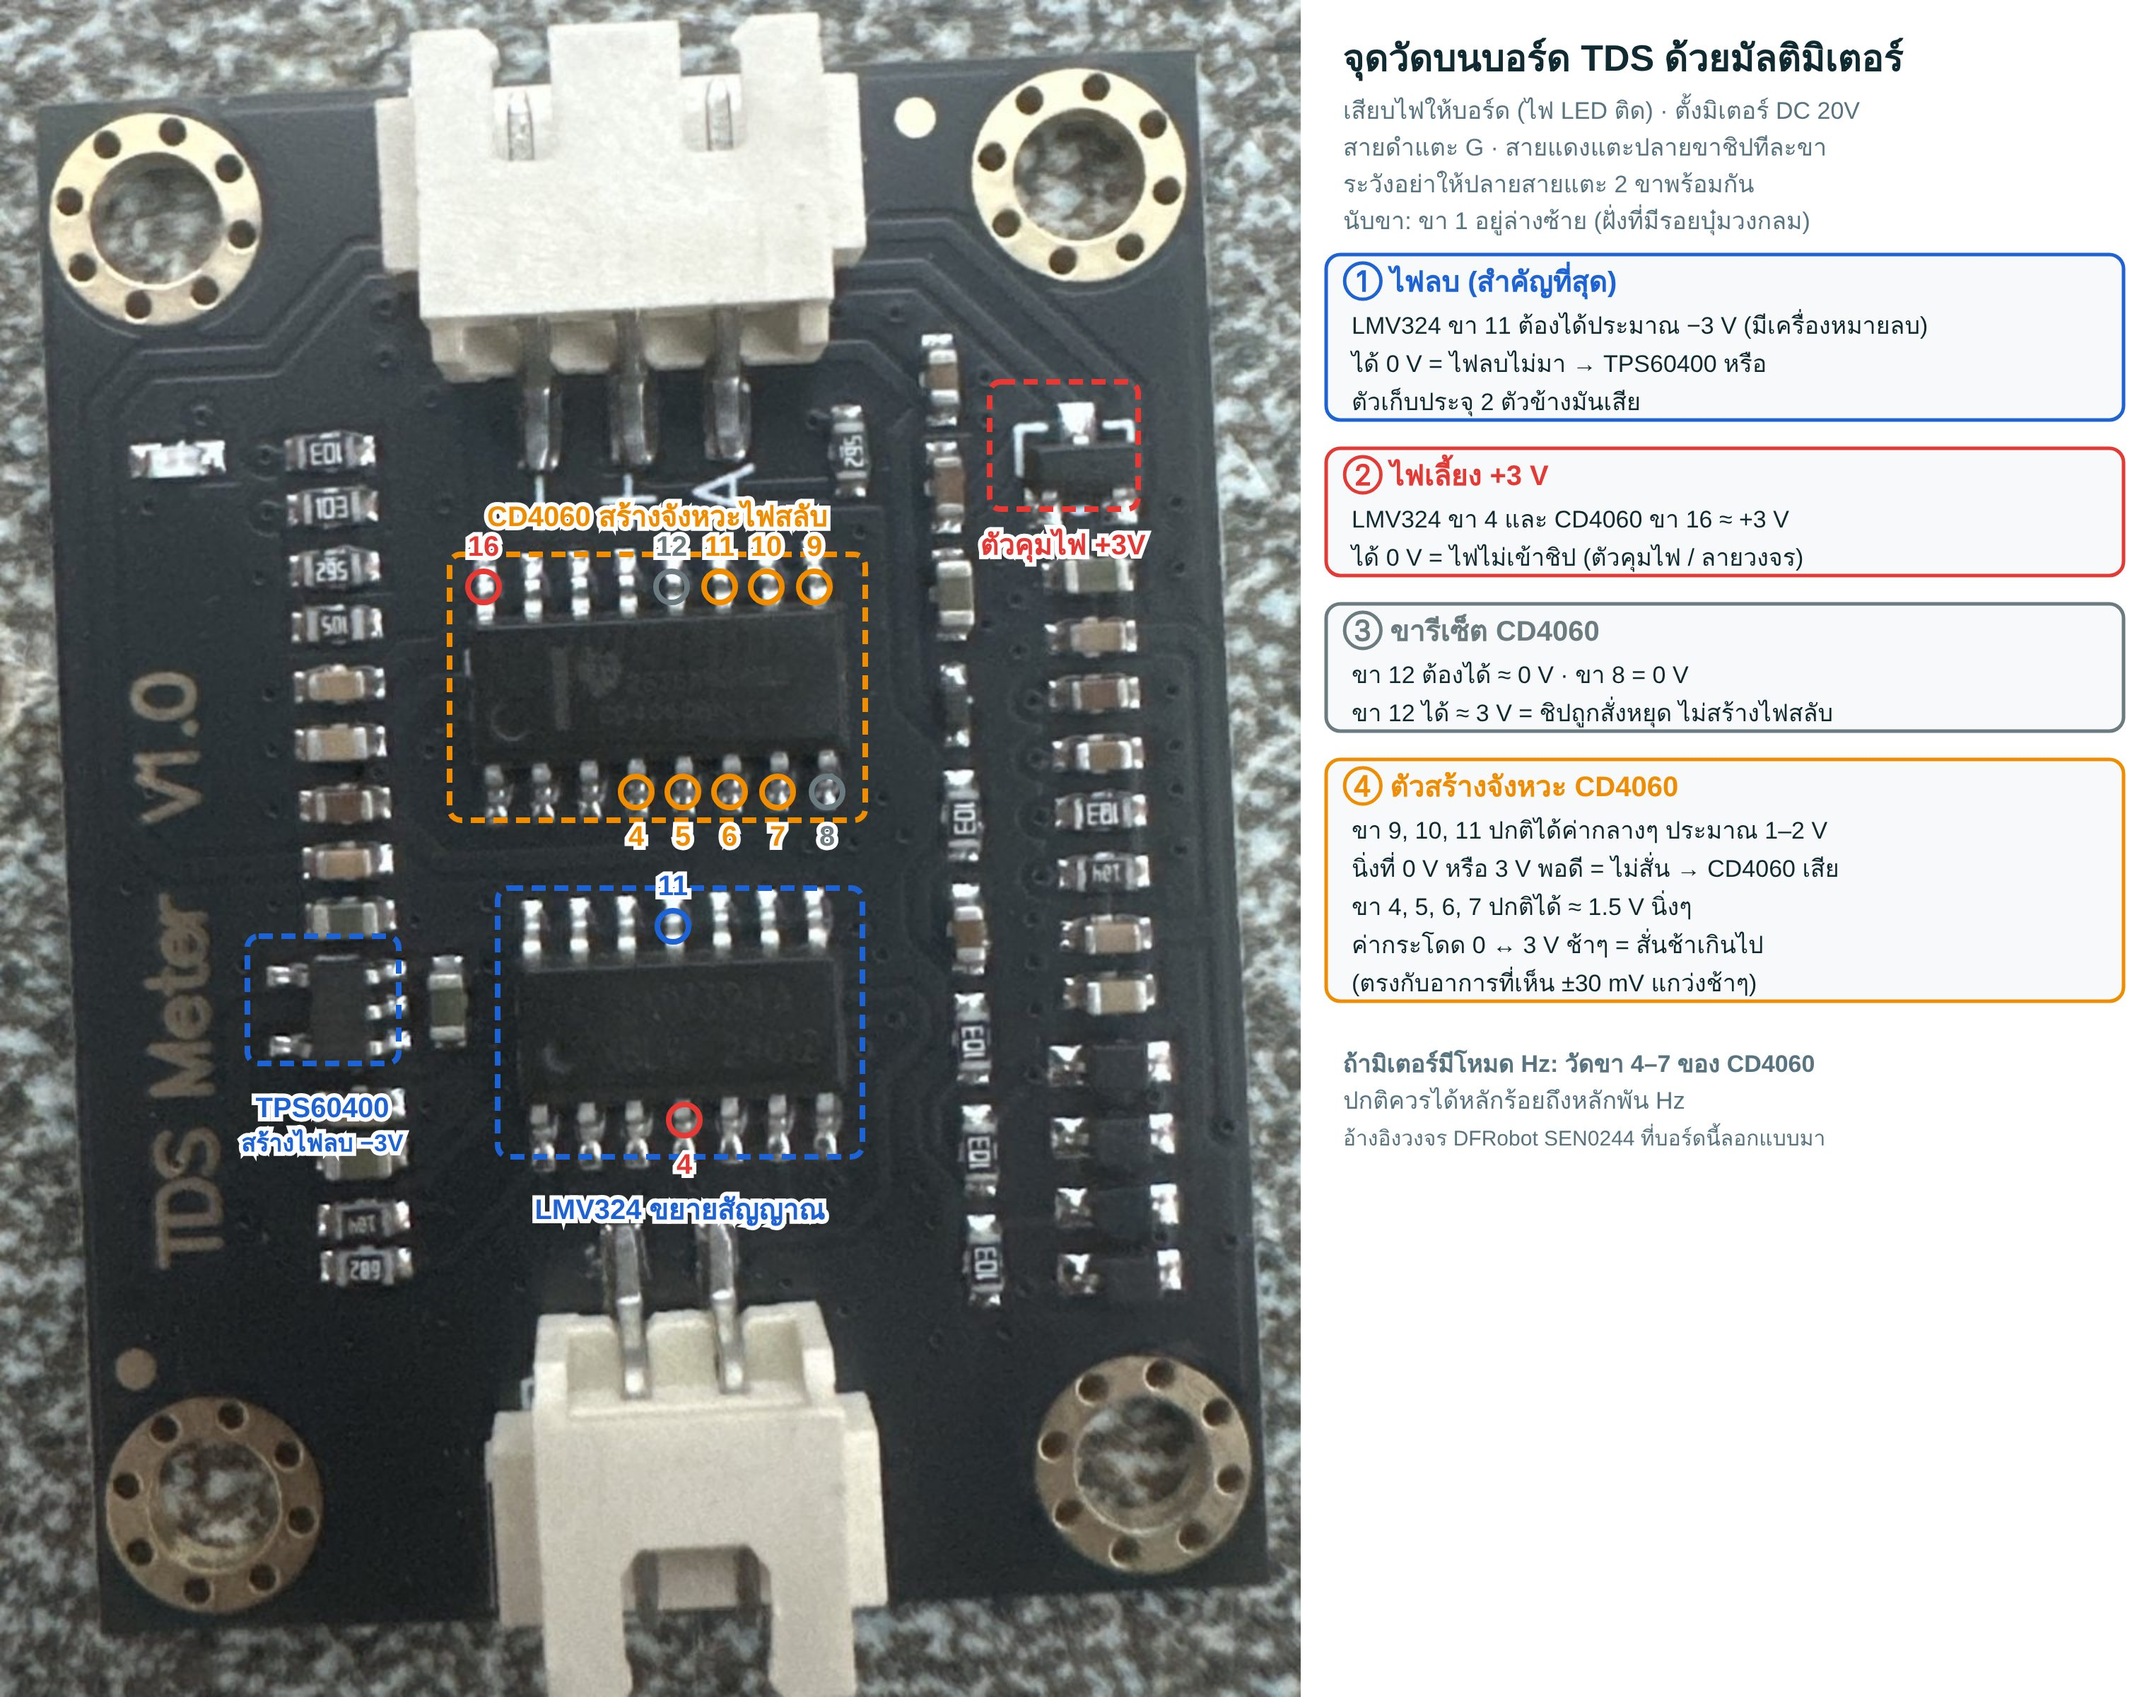
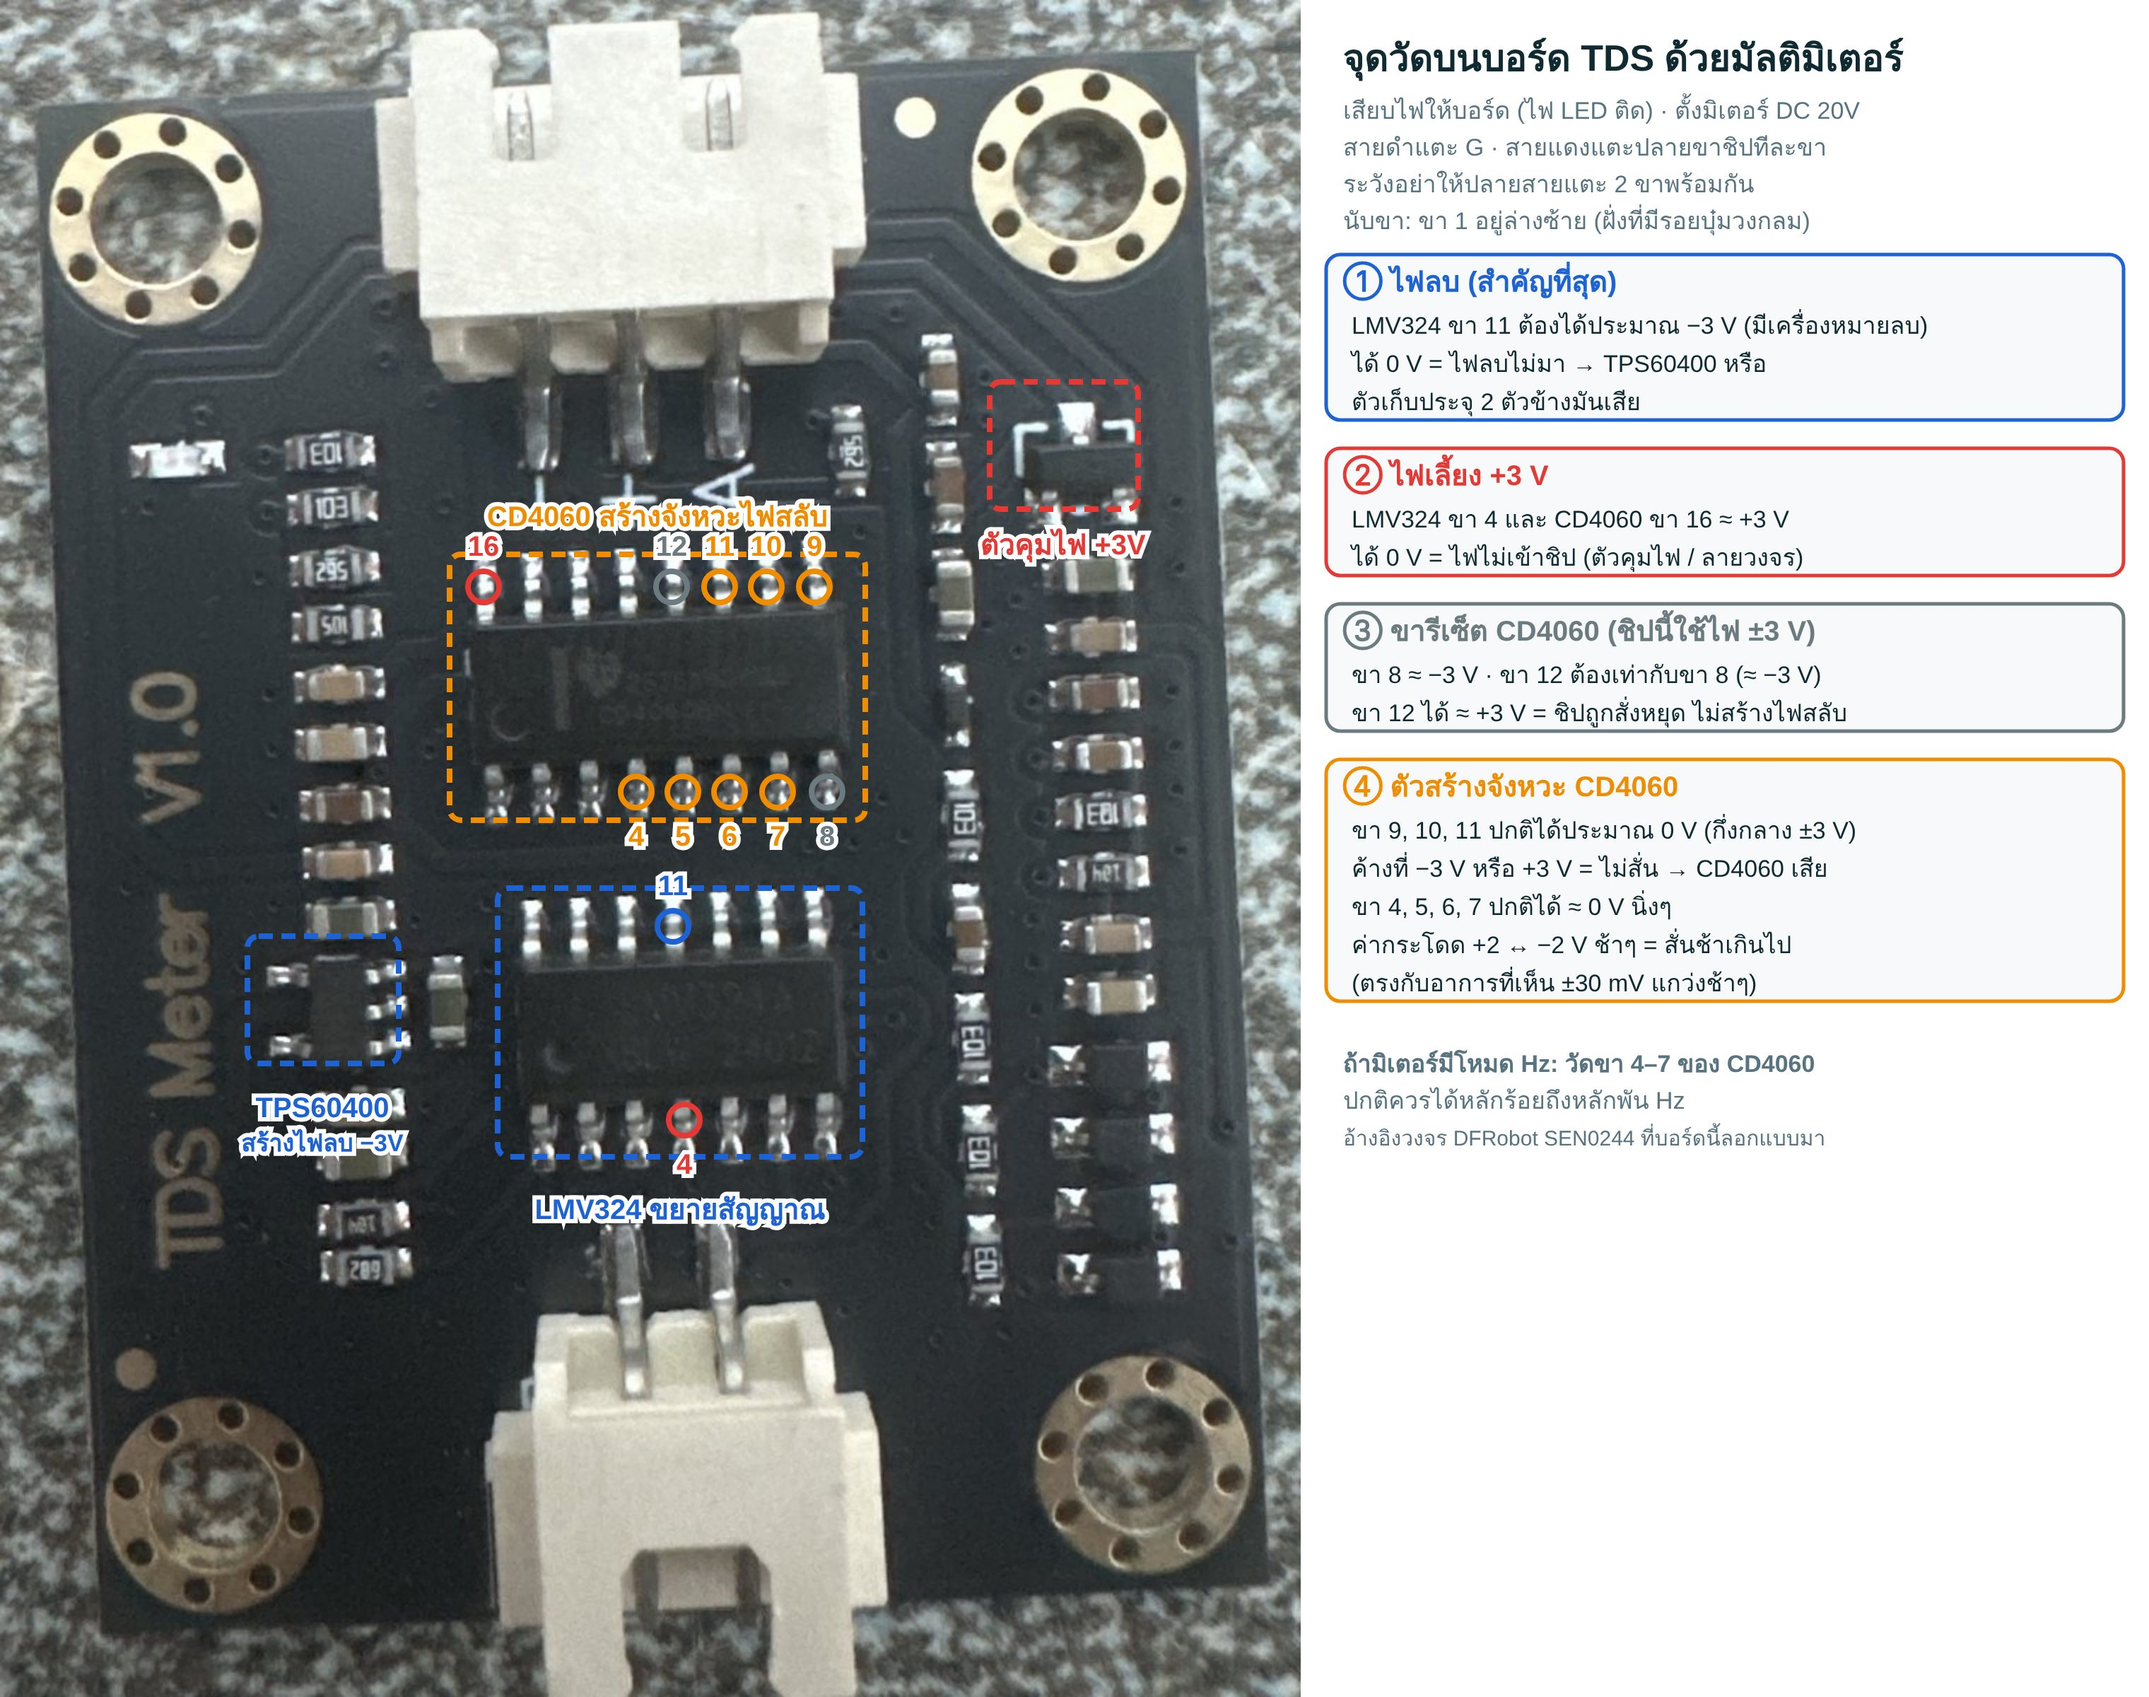
แก้ภาพจุดวัดบอร์ด TDS: CD4060 ใช้ไฟ ±3 V (ขา 8, 12 ≈ −3 V คือปกติ)
Claude-Session: https://claude.ai/code/session_01HLqKeGncnHJACoXNxPcGh5

Changed region(s): [[0.625, 0.4688, 0.8438, 0.5625], [0.6562, 0.3438, 0.8438, 0.4375]]

diff --git a/tools/make_tds_board_points.py b/tools/make_tds_board_points.py
@@ -84,14 +84,14 @@ steps = [
     (RED, "② ไฟเลี้ยง +3 V", [
         "LMV324 ขา 4 และ CD4060 ขา 16 ≈ +3 V",
         "ได้ 0 V = ไฟไม่เข้าชิป (ตัวคุมไฟ / ลายวงจร)"]),
-    (GRAY, "③ ขารีเซ็ต CD4060", [
-        "ขา 12 ต้องได้ ≈ 0 V · ขา 8 = 0 V",
-        "ขา 12 ได้ ≈ 3 V = ชิปถูกสั่งหยุด ไม่สร้างไฟสลับ"]),
+    (GRAY, "③ ขารีเซ็ต CD4060 (ชิปนี้ใช้ไฟ ±3 V)", [
+        "ขา 8 ≈ −3 V · ขา 12 ต้องเท่ากับขา 8 (≈ −3 V)",
+        "ขา 12 ได้ ≈ +3 V = ชิปถูกสั่งหยุด ไม่สร้างไฟสลับ"]),
     (ORANGE, "④ ตัวสร้างจังหวะ CD4060", [
-        "ขา 9, 10, 11 ปกติได้ค่ากลางๆ ประมาณ 1–2 V",
-        "นิ่งที่ 0 V หรือ 3 V พอดี = ไม่สั่น → CD4060 เสีย",
-        "ขา 4, 5, 6, 7 ปกติได้ ≈ 1.5 V นิ่งๆ",
-        "ค่ากระโดด 0 ↔ 3 V ช้าๆ = สั่นช้าเกินไป",
+        "ขา 9, 10, 11 ปกติได้ประมาณ 0 V (กึ่งกลาง ±3 V)",
+        "ค้างที่ −3 V หรือ +3 V = ไม่สั่น → CD4060 เสีย",
+        "ขา 4, 5, 6, 7 ปกติได้ ≈ 0 V นิ่งๆ",
+        "ค่ากระโดด +2 ↔ −2 V ช้าๆ = สั่นช้าเกินไป",
         "(ตรงกับอาการที่เห็น ±30 mV แกว่งช้าๆ)"]),
 ]
 y += 18
